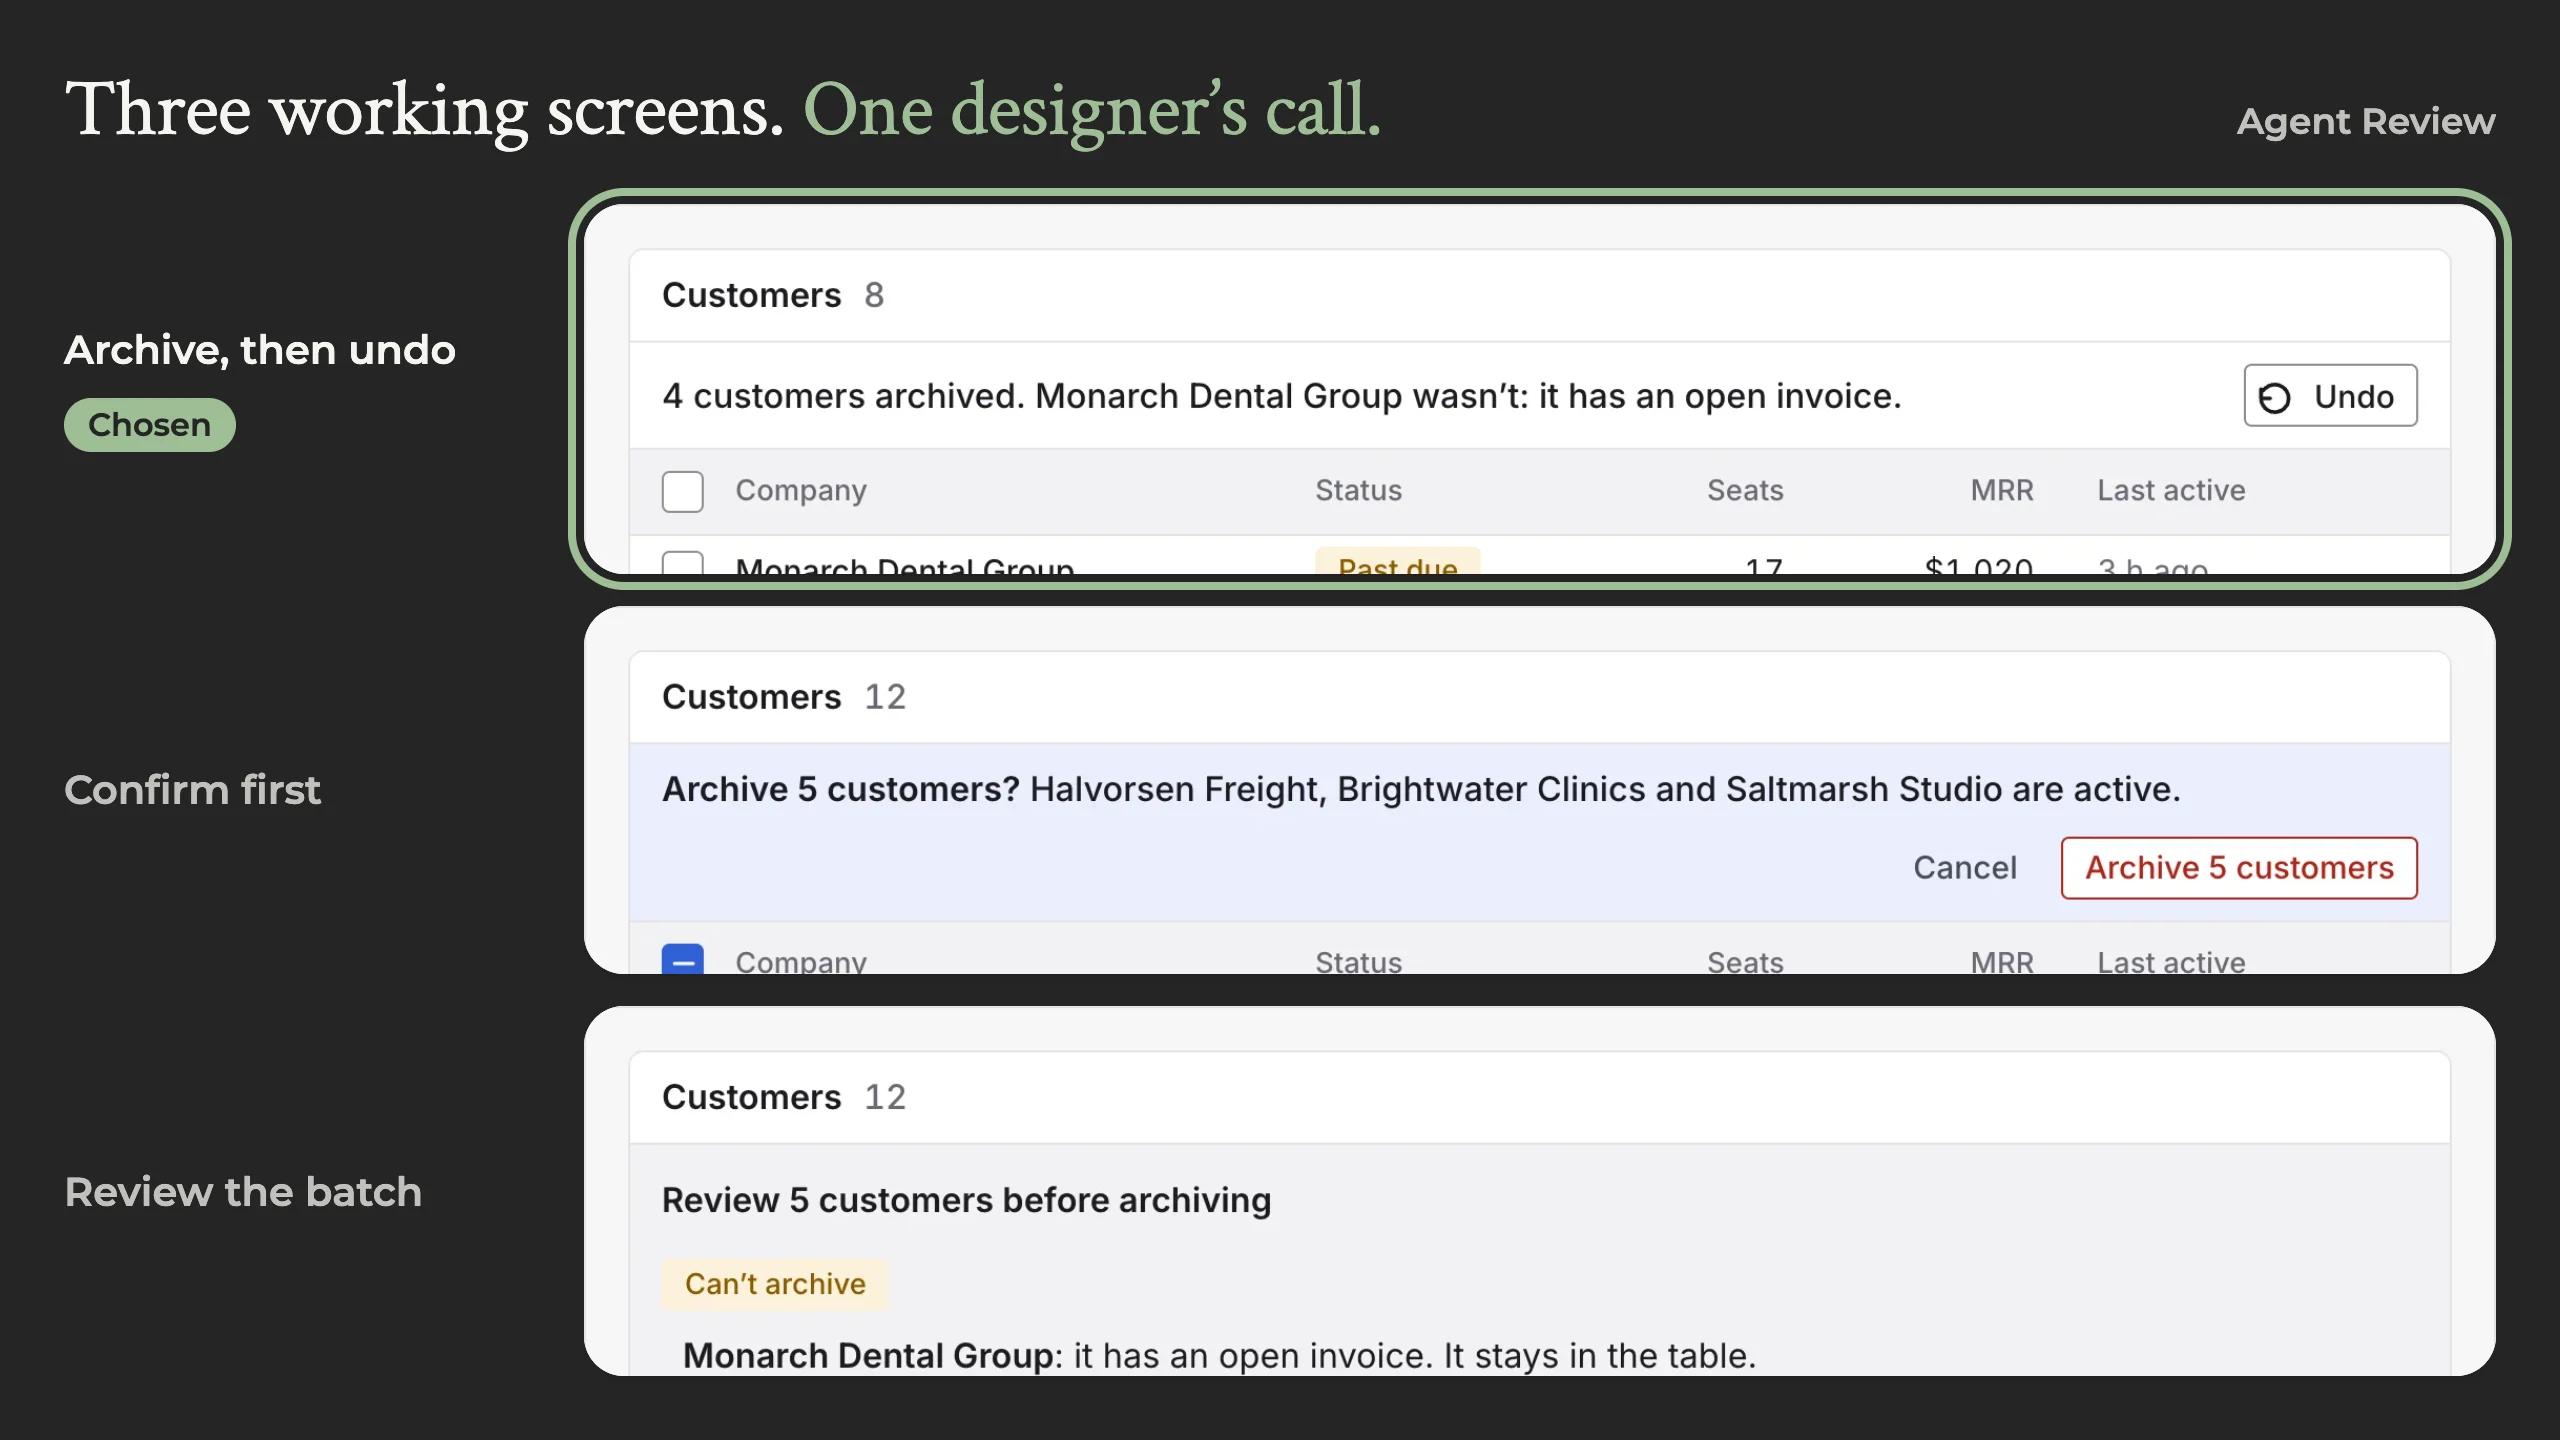
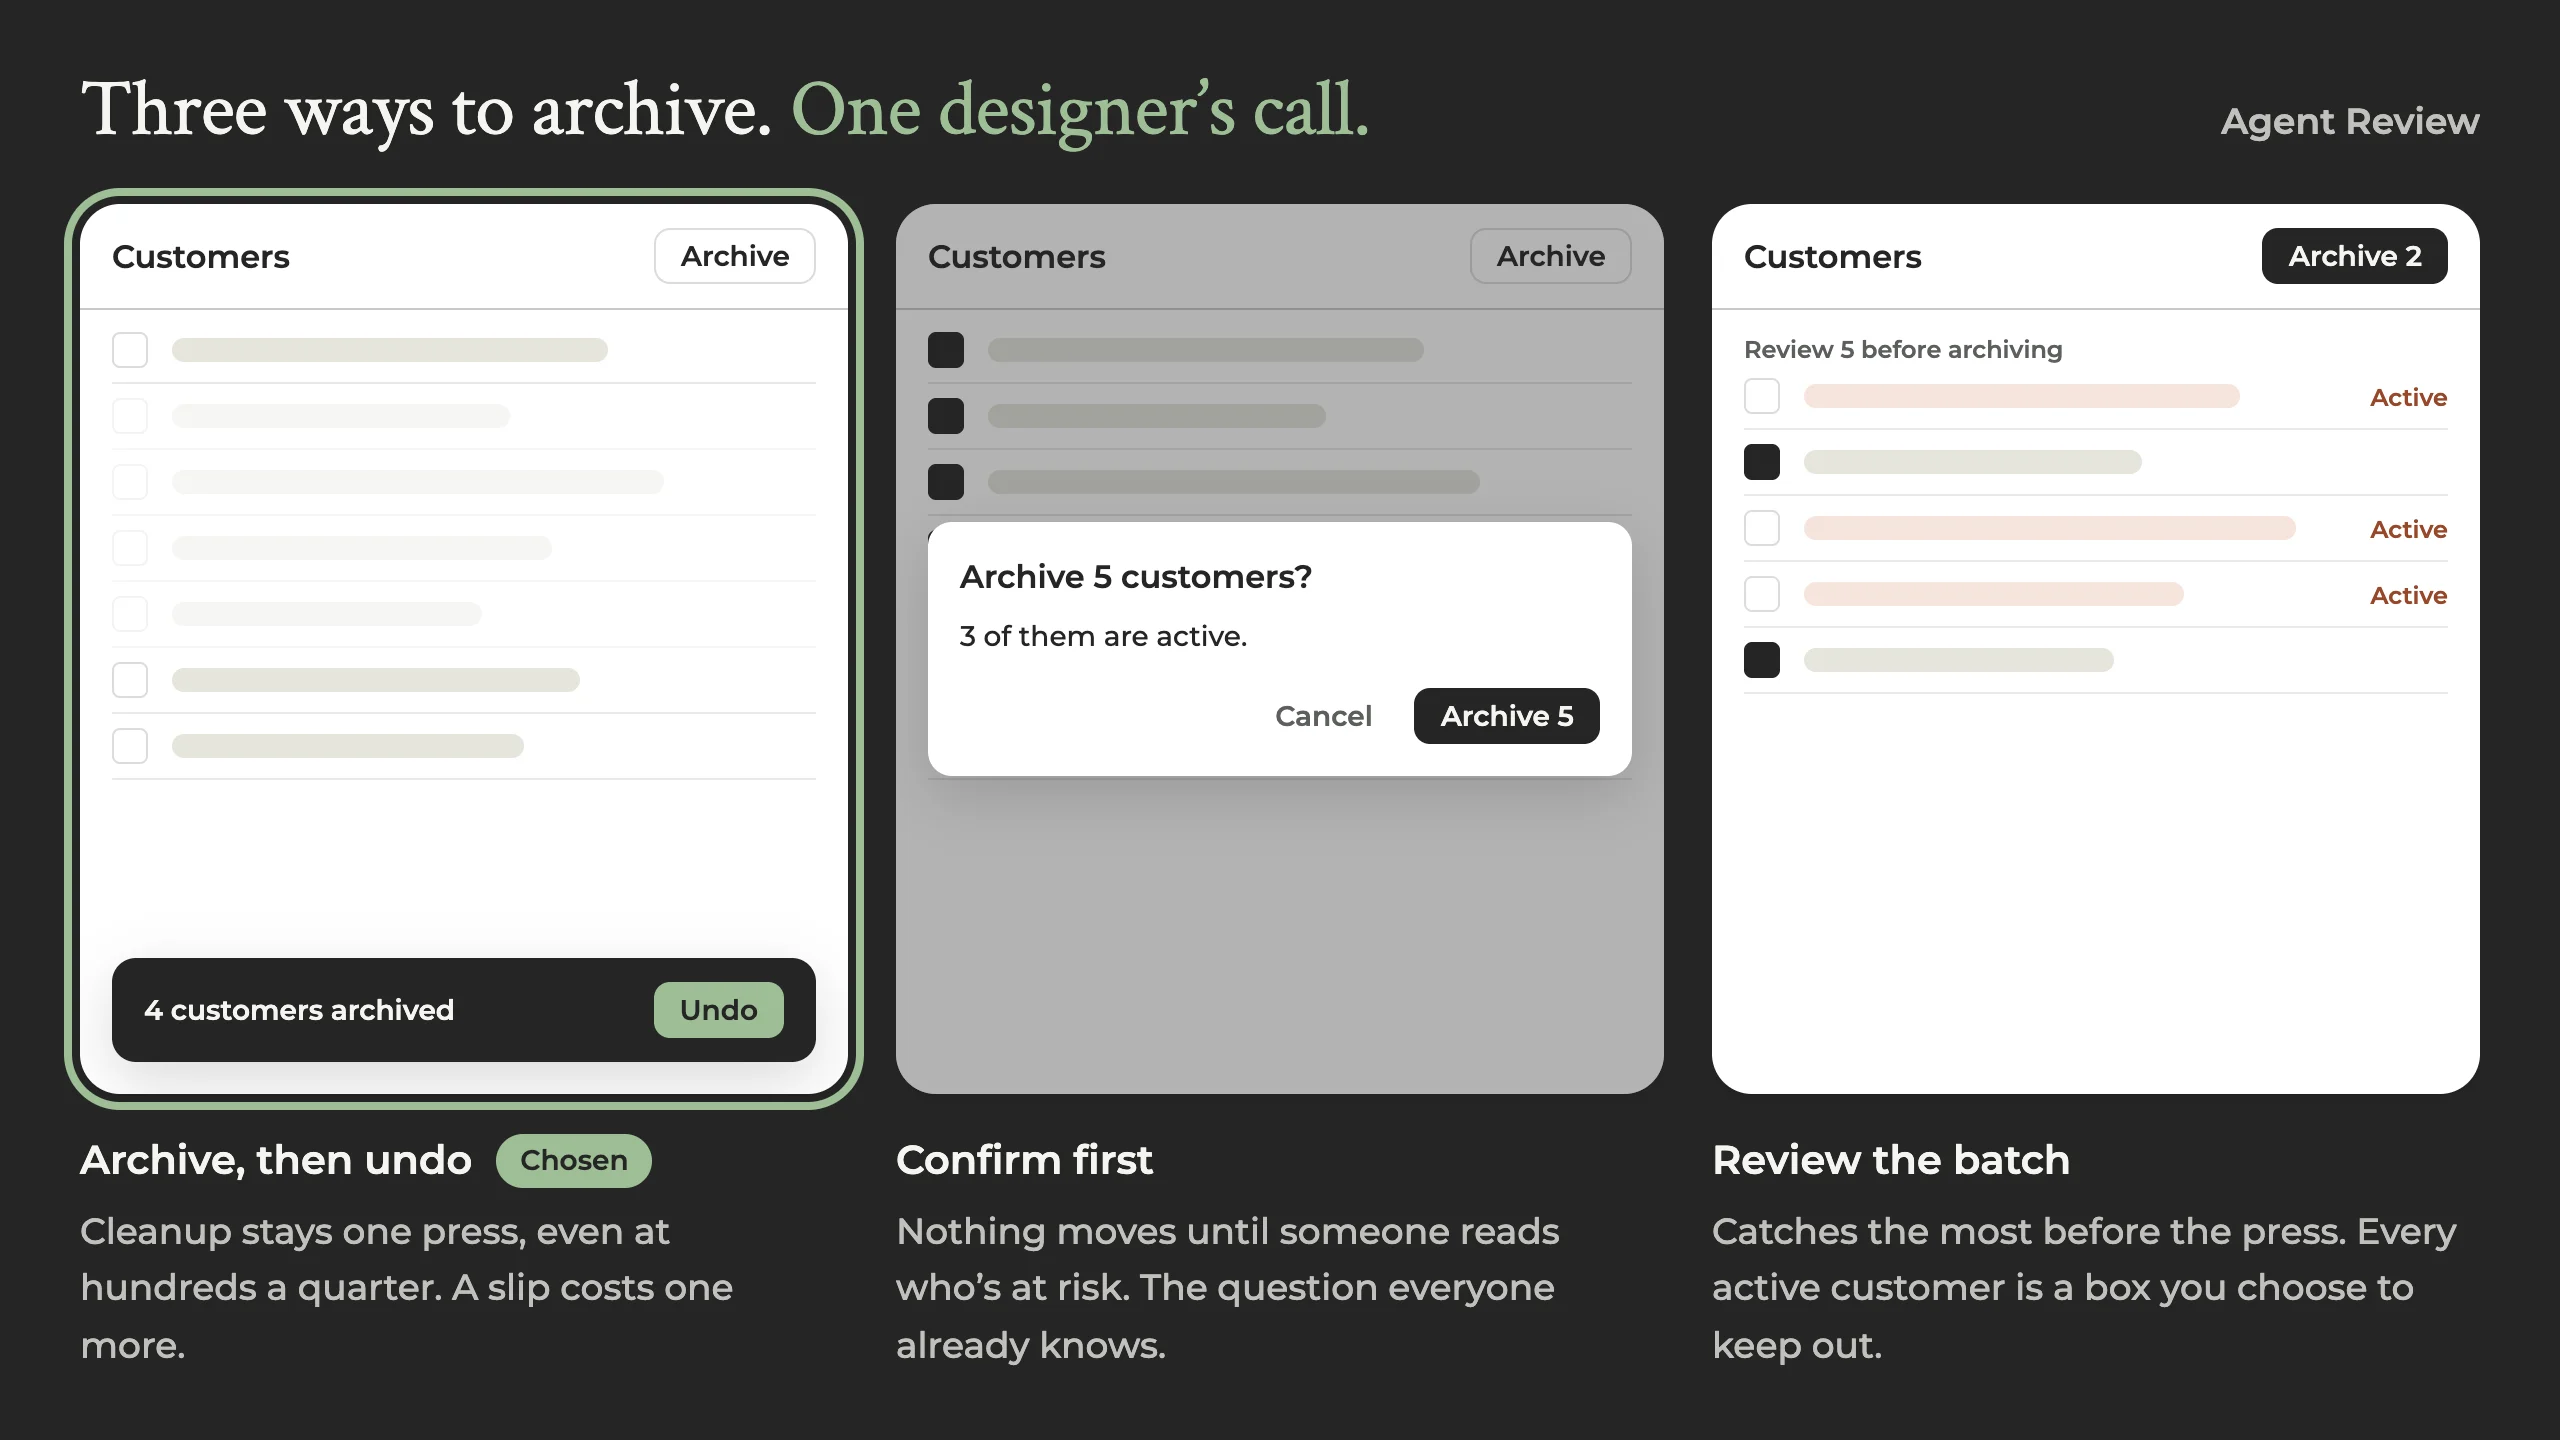
The Agent Review card is drawn, not captured: three simple customer lists at the card's height, each showing only what makes it different (Undo after the press, a question naming the risk before it, the batch laid out to choose from), and under each its name and the strongest case for it. Title "Thr

diff --git a/index.html b/index.html
@@ -903,8 +903,8 @@
                 <a class="product-link" href="lab/agent-review.html">Read the Agent Review case study</a>
               </p>
             </div>
-            <a class="case-thumb" href="lab/agent-review.html" aria-label="Read the Agent Review case study: three working archive screens, one designer&rsquo;s call">
-              <img src="img/lab/agent-review-cycle-card.webp?v=2" width="2560" height="1440" alt="" loading="lazy" decoding="async" />
+            <a class="case-thumb" href="lab/agent-review.html" aria-label="Read the Agent Review case study: three ways to archive, one designer&rsquo;s call">
+              <img src="img/lab/agent-review-cycle-card.webp?v=3" width="2560" height="1440" alt="" loading="lazy" decoding="async" />
             </a>
           </div>
         </div>

diff --git a/lab/index.html b/lab/index.html
@@ -289,7 +289,7 @@
           </li>
           <li class="writing-item">
             <a class="writing-link" href="agent-review.html">
-              <img class="writing-card" src="../img/lab/agent-review-cycle-card.webp?v=2" width="1280" height="720" alt="" decoding="async" />
+              <img class="writing-card" src="../img/lab/agent-review-cycle-card.webp?v=3" width="1280" height="720" alt="" decoding="async" />
               <div class="writing-text">
                 <h3 class="writing-title">Agent Review: design judgment when agents join the team</h3>
                 <p class="writing-dek">A prototype that follows one feature from a support ticket to what ships, with a coding agent doing the building. Its scenarios are simulated.</p>
